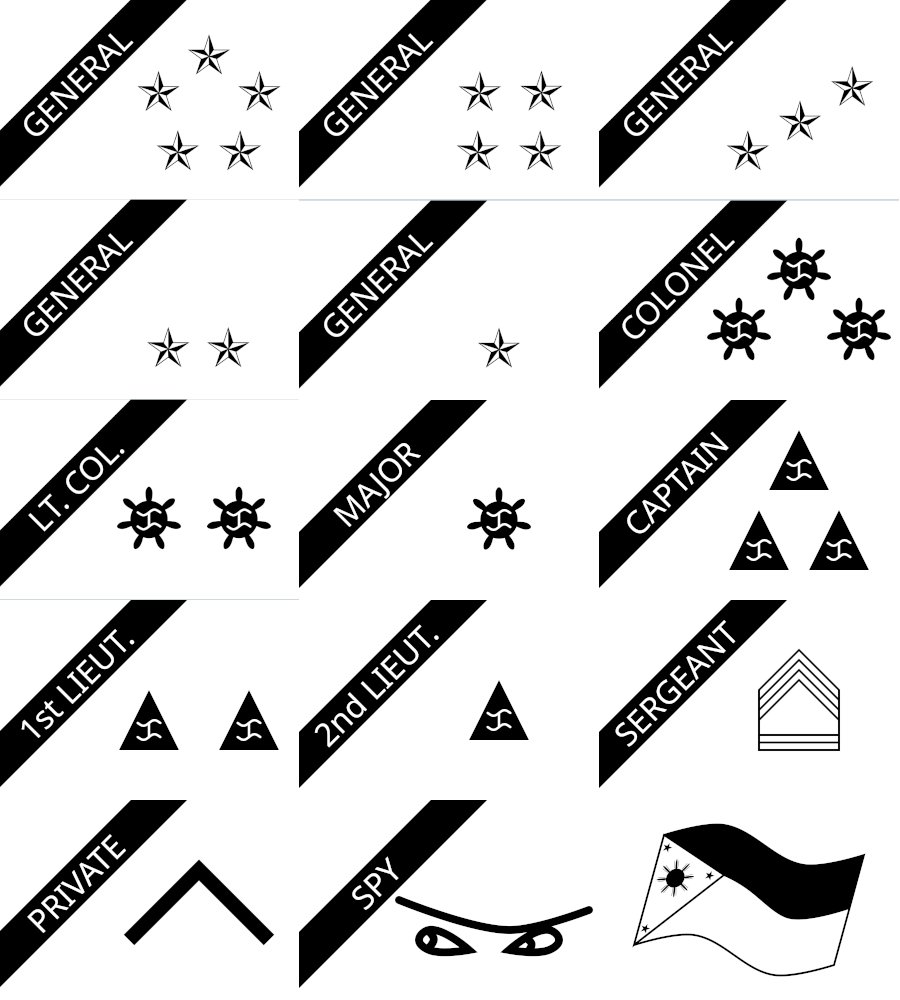
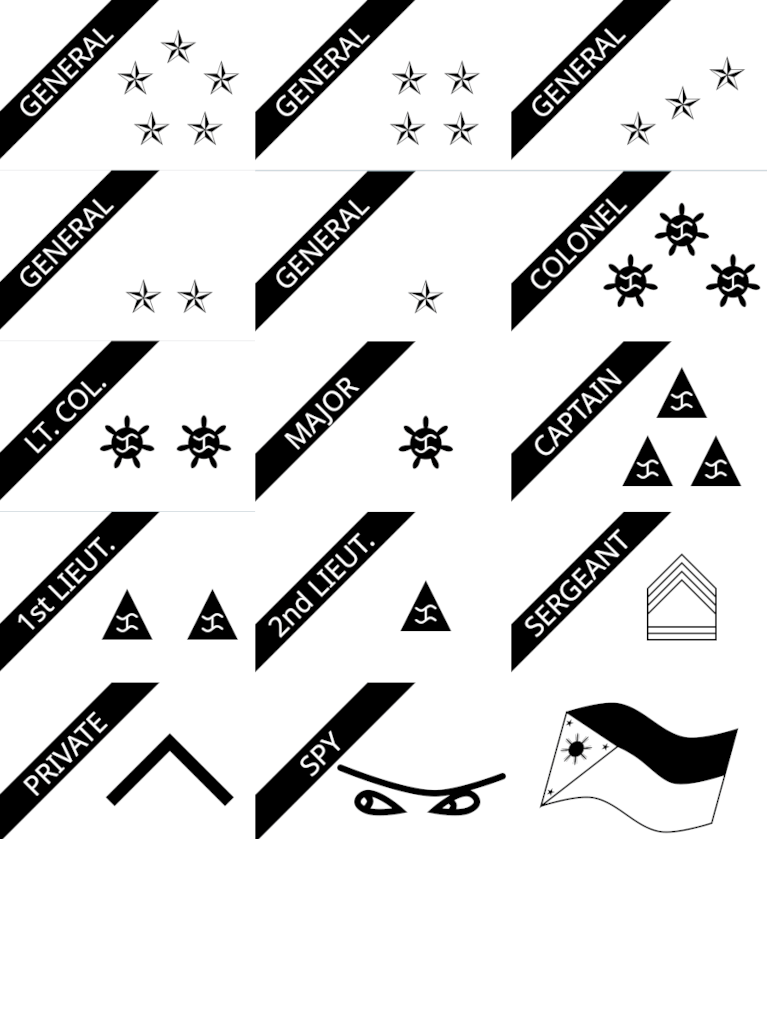
Made optimization on loading textures

diff --git a/src/game/Piece.js b/src/game/Piece.js
@@ -2,27 +2,42 @@ import * as THREE from "three";
 import gsap from "gsap";
 
 class Piece {
-	constructor(playerIndex, index, row, col, color, rankValue) {
+	constructor(playerIndex, index, row, col, color, rankValue, texture) {
 		// Create the piece..
 		this.index = index;
 		this.row = row;
 		this.col = col;
 		this.tileIndex = row * 9 + col;
 		this.playerIndex = playerIndex;
-		this.rankValue = rankValue;
 		this.color = color;
 		this.isEnabled = false;
 		this.isSelected = false;
 		this.isCaptured = false;
 		this.anim = null;
 
-		this.createMesh();
-		if (rankValue !== null && rankValue !== undefined) this.addRank();
+		//rank..
+		if (rankValue !== null && rankValue !== undefined) {
+			this.rankValue = rankValue;
+		} else {
+			this.rankValue = 15;
+		}
+
+		this.mesh = new THREE.Group();
+
+		this.init(texture);
 	}
 
-	createMesh() {
-		const pieceGroup = new THREE.Group();
+	init(texture) {
+		// const pieceGroup = new THREE.Group();
 
+		const clickAreaGeometry = new THREE.BoxGeometry(0.8, 1, 0.4);
+		const clickAreaMaterial = new THREE.MeshBasicMaterial({
+			visible: false,
+		});
+		const clickArea = new THREE.Mesh(clickAreaGeometry, clickAreaMaterial);
+		this.mesh.add(clickArea);
+
+		//create mesh..
 		const clr = this.color == 0 ? 0xffffff : 0x000000;
 
 		const pieceMaterial = new THREE.MeshBasicMaterial({ color: clr });
@@ -47,54 +62,65 @@ class Piece {
 		vertBorder.position.set(0, 0.26, 0.04);
 		vertBorder.rotation.x = -Math.PI / 5;
 
-		pieceGroup.add(vert, vertBorder, base, baseBorder);
+		this.mesh.add(vert, vertBorder, base, baseBorder);
 
-		//set pieceGroup rotation..
-		if (this.playerIndex !== 0) {
-			pieceGroup.rotation.y = Math.PI; // Rotate piece 180 degrees for self-placement
-		}
-
-		//set pieceGroup position..
-		const x = this.col - 9 / 2 + 0.5;
-		const z = this.row - 8 / 2 + 0.5;
-
-		pieceGroup.position.set(x, 0.7, z);
-
-		this.mesh = pieceGroup;
-	}
-
-	addRank() {
-		//apply rank with texture..
-		const texturePath = `/game/assets/images/ranks_${
-			this.color == 0 ? "white" : "black"
-		}.png`;
-		const texture = new THREE.TextureLoader().load(texturePath);
-		texture.generateMipmaps = false; // Disable mipmaps
-		texture.minFilter = THREE.LinearFilter;
-
-		texture.wrapS = THREE.RepeatWrapping;
-		texture.wrapT = THREE.RepeatWrapping;
-		texture.repeat.set(1 / 3, 1 / 5);
+		//create ranks..
 
 		const column = this.rankValue % 3;
 		const row = Math.floor(this.rankValue / 3); // Floor division to get the row number
 
-		texture.offset.set(column / 3, 1 - (row + 1) / 5); // Adjust offset
+		const pieceTexture = texture.clone();
+		pieceTexture.offset.set(column / 3, 1 - (row + 1) / 6);
 
 		const planeGeometry = new THREE.PlaneGeometry(0.79, 0.51);
 		const planeMaterial = new THREE.MeshBasicMaterial({
-			map: texture, // Apply the texture
+			map: pieceTexture, // Apply the texture
 		});
 		const plane = new THREE.Mesh(planeGeometry, planeMaterial);
 		plane.position.set(0, 0.28, 0.06);
 		plane.rotation.x = -Math.PI / 5;
 
 		this.mesh.add(plane);
+
+		//set pieceGroup position..
+		const x = this.col - 9 / 2 + 0.5;
+		const z = this.row - 8 / 2 + 0.5;
+
+		this.mesh.position.set(x, 0.7, z);
+
+		//set pieceGroup rotation..
+		if (this.playerIndex !== 0) {
+			this.mesh.rotation.y = Math.PI; // Rotate piece 180 degrees for self-placement
+		}
+
+		//drop..
+		gsap.to(this.mesh.position, {
+			y: 0.06,
+			duration: (i) => {
+				return Math.random() * 1 + 0.2;
+			},
+			ease: "bounce.out",
+			delay: 0.3,
+		});
+	}
+
+	updateRank() {
+		//update rank with texture..
+		const column = this.rankValue % 3;
+		const row = Math.floor(this.rankValue / 3);
+
+		// Loop through this.mesh children and find the plane with the texture
+		this.mesh.children.forEach((child) => {
+			if (child.isMesh && child.material.map) {
+				child.material.map.offset.set(column / 3, 1 - (row + 1) / 6);
+				child.material.map.needsUpdate = true; // Tell Three.js to refresh the texture
+			}
+		});
 	}
 
 	showRank(rank) {
 		this.rankValue = rank;
-		this.addRank();
+		this.updateRank();
 		this.rotate();
 	}
 

diff --git a/src/game/ThreeJSGame.js b/src/game/ThreeJSGame.js
@@ -179,10 +179,6 @@ class ThreeJSGame extends EventEmitter {
 
 		raycaster.setFromCamera(mouse, this.camera);
 
-		const tilesIntersects = raycaster.intersectObjects(
-			this.clickableTiles,
-			true
-		);
 		const piecesIntersects = raycaster.intersectObjects(
 			this.clickablePieces,
 			true
@@ -190,13 +186,20 @@ class ThreeJSGame extends EventEmitter {
 
 		if (piecesIntersects.length > 0) {
 			const clickedPiece = piecesIntersects[0].object;
-			const pieceIndex = this.clickablePieces.indexOf(clickedPiece);
+			const pieceIndex = this.clickablePieces.findIndex(
+				(obj) => obj.id === clickedPiece.id
+			);
+
 			if (pieceIndex !== -1) {
 				this.pieceClicked(pieceIndex);
 			}
 			return;
 		}
 
+		const tilesIntersects = raycaster.intersectObjects(
+			this.clickableTiles,
+			true
+		);
 		if (tilesIntersects.length > 0) {
 			const clickedTile = tilesIntersects[0].object;
 			const tileIndex = this.clickableTiles.indexOf(clickedTile);
@@ -231,32 +234,40 @@ class ThreeJSGame extends EventEmitter {
 	createPlayerPieces(playerIndex, piecesData = []) {
 		if (!Array.isArray(piecesData) || piecesData.length === 0) return;
 
-		piecesData.forEach((pieceData, i) => {
-			const { row, col, color, rank } = pieceData;
-			const piece = new Piece(playerIndex, i, row, col, color, rank);
-			this.pieces.push(piece);
-			this.tiles[row * 9 + col].setIndexes(playerIndex, i);
+		const pieceColor = piecesData[0].color;
+		const texturePath = `/game/assets/images/ranks_${
+			pieceColor == 0 ? "white" : "black"
+		}.png`;
 
-			if (playerIndex !== 1) {
-				this.clickablePieces.push(piece.mesh.children[0]);
-			}
-			this.scene.add(piece.mesh);
-			// console.log(row, col, row * 9 + col);
+		new THREE.TextureLoader().load(texturePath, (texture) => {
+			texture.generateMipmaps = true; // Disable mipmaps
+			texture.minFilter = THREE.LinearFilter;
+
+			texture.wrapS = THREE.RepeatWrapping;
+			texture.wrapT = THREE.RepeatWrapping;
+			texture.repeat.set(1 / 3, 1 / 6);
+
+			//create pieces..
+			piecesData.forEach((pieceData, i) => {
+				const { row, col, color, rank } = pieceData;
+				const piece = new Piece(
+					playerIndex,
+					i,
+					row,
+					col,
+					color,
+					rank,
+					texture
+				);
+				this.pieces.push(piece);
+				this.tiles[row * 9 + col].setIndexes(playerIndex, i);
+
+				if (playerIndex !== 1) {
+					this.clickablePieces.push(piece.mesh.children[0]);
+				}
+				this.scene.add(piece.mesh);
+			});
 		});
-
-		const pieceMesh = this.pieces
-			.filter((piece) => piece.playerIndex === playerIndex)
-			.map((piece) => piece.mesh.position);
-
-		const anim = gsap.to(pieceMesh, {
-			y: 0.06, // Bigger wave height
-			duration: (i) => {
-				return Math.random() * 0.8 + 0.2;
-			},
-			ease: "bounce.out",
-			delay: 0.3,
-		});
-		// anim.timeScale(1.5);
 	}
 
 	showOpponentRanks(ranks) {

diff --git a/src/game/Tile.js b/src/game/Tile.js
@@ -11,13 +11,14 @@ class Tile {
 		// this.isResided = false;
 		this.pieceIndex = null;
 		this.playerIndex = null;
-		this.mesh = this.createMesh();
 		this.blinkAnim = null;
+
+		this.mesh = new THREE.Group();
+
+		this.init();
 	}
 
-	createMesh() {
-		const pieceGroup = new THREE.Group();
-
+	init() {
 		const clr = this.color === "blue" ? 0x0000ff : 0xff0000;
 
 		const boxGeometry = new THREE.BoxGeometry(1, 0.1, 1);
@@ -28,13 +29,11 @@ class Tile {
 		const insideBoxMaterial = new THREE.MeshBasicMaterial({ color: clr });
 		const insideSquare = new THREE.Mesh(insideBoxGeometry, insideBoxMaterial);
 
-		pieceGroup.add(square, insideSquare);
+		this.mesh.add(square, insideSquare);
 
 		const x = this.col - 9 / 2 + 0.5;
 		const z = this.row - 8 / 2 + 0.5;
-		pieceGroup.position.set(x, 0, z);
-
-		return pieceGroup;
+		this.mesh.position.set(x, 0, z);
 	}
 
 	blink() {

diff --git a/server/AIPlayer.js b/server/AIPlayer.js
@@ -1,0 +1,31 @@
+import { Player } from "./Player.js";
+import Utils from "./Utils.js";
+
+class AIPlayer extends Player {
+	constructor(id, username) {
+		super(id, null, username, true);
+		this.gridData = []; // Stores board data
+	}
+
+	//..
+	initGridData() {
+		for (let i = 0; i < 8; i++) {
+			for (let j = 0; j < 9; j++) {
+				this.gridData[i][j] = {
+					rank: null,
+					player: null, //self or oppo
+				};
+			}
+		}
+	}
+	//get initial data from owned piece initial position
+	getInitialData() {
+		//todo..
+	}
+
+	setGridData(data) {
+		this.gridData;
+	}
+}
+
+export default AIPlayer;
